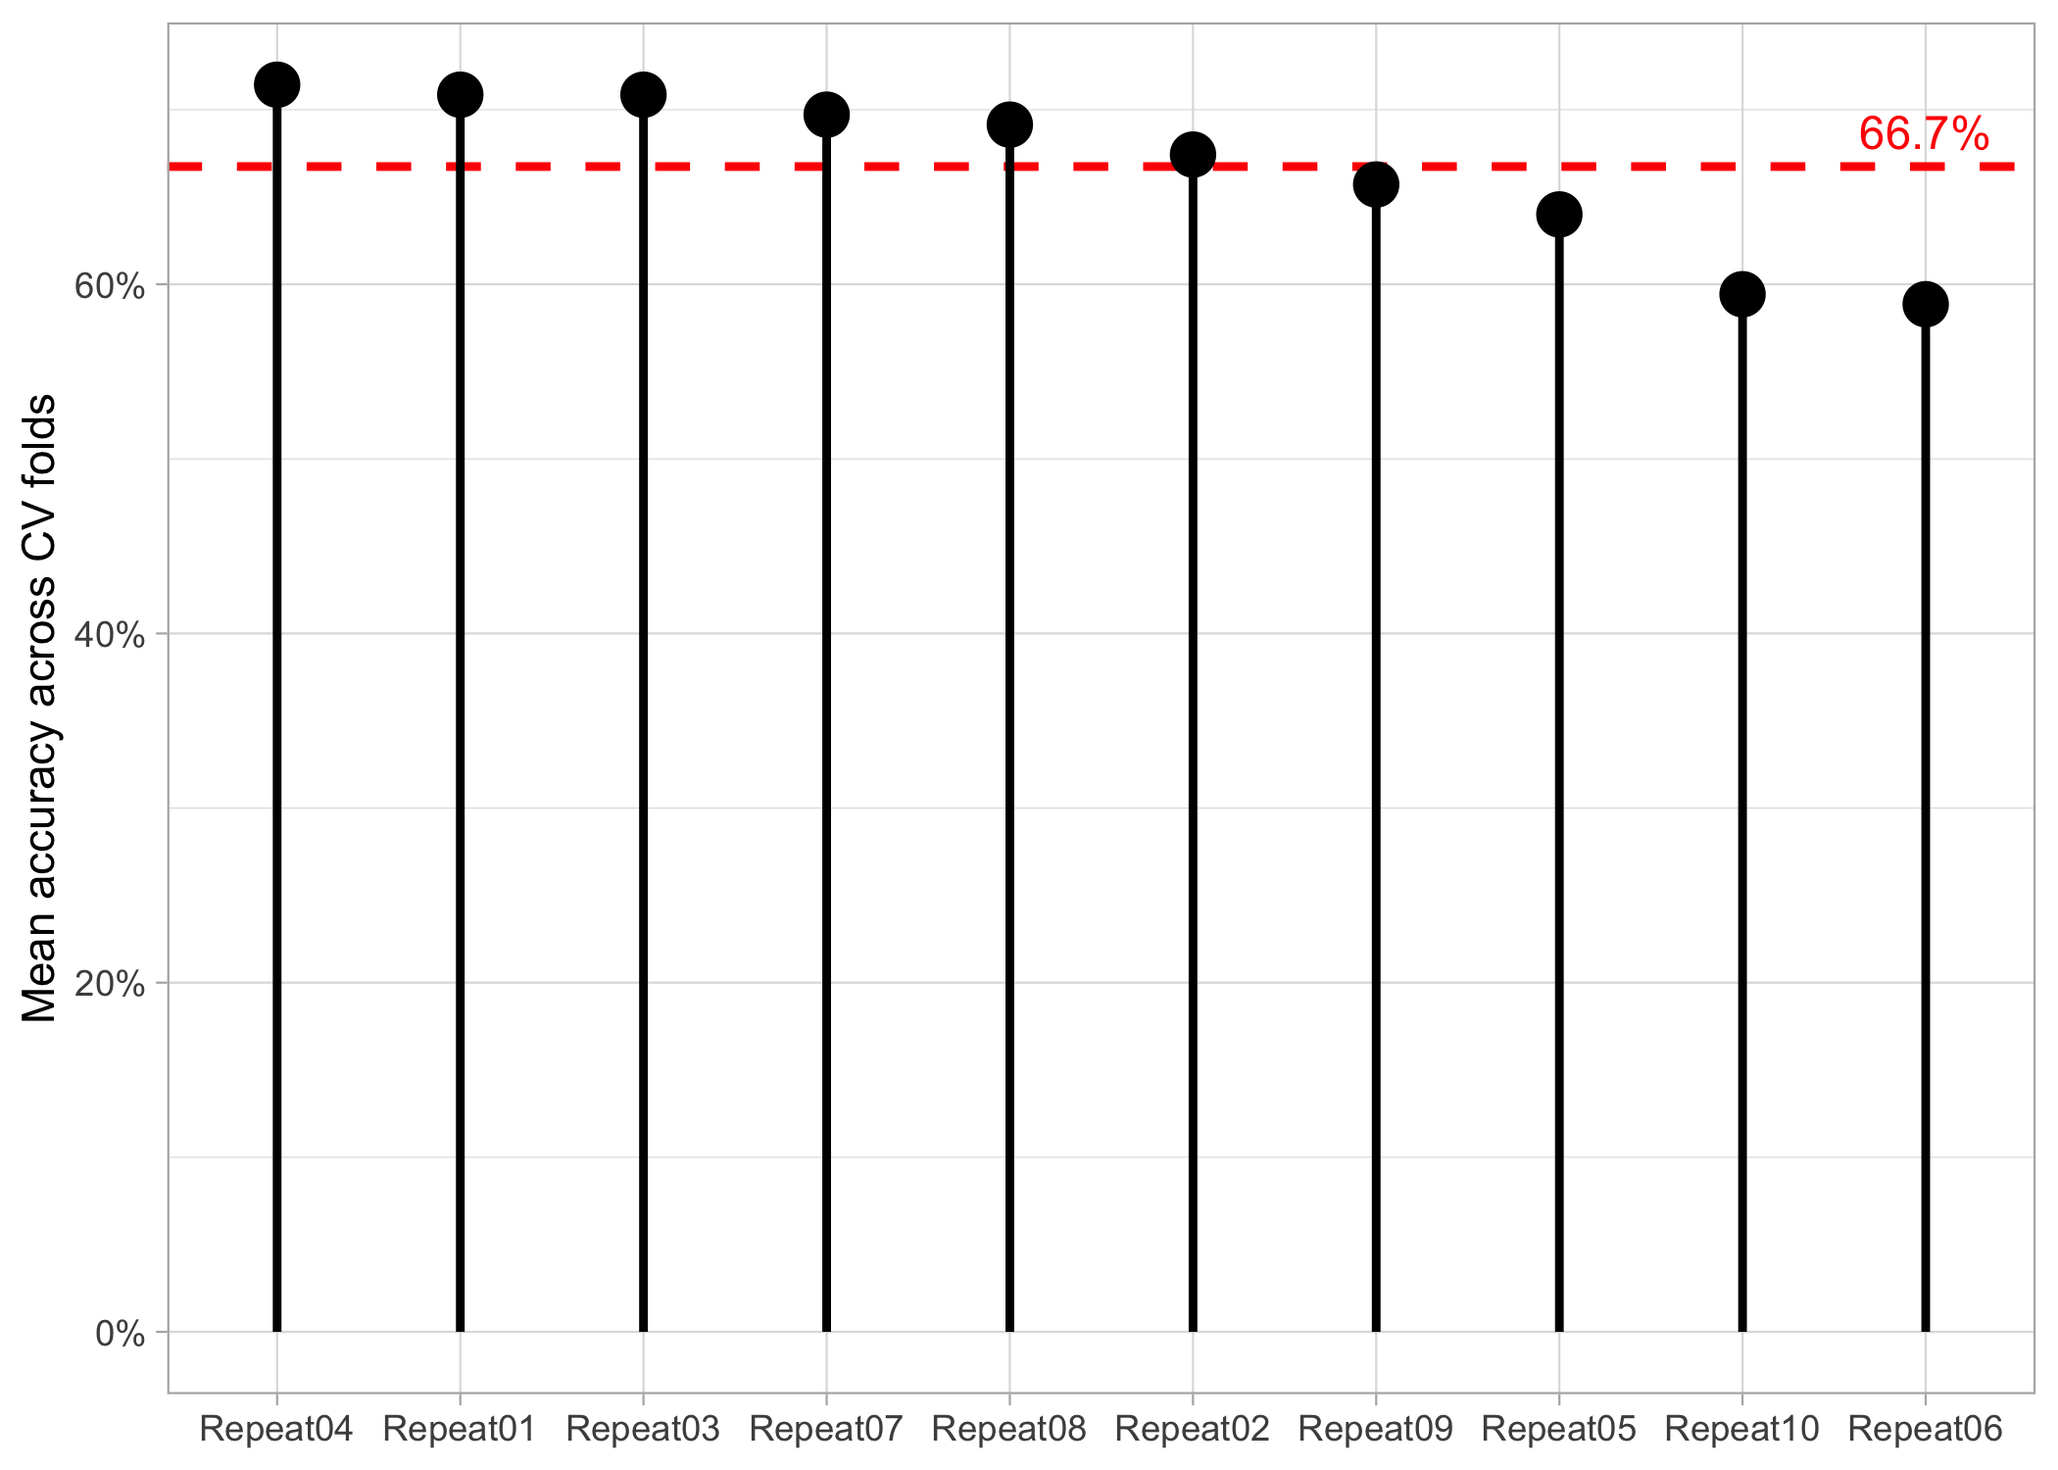
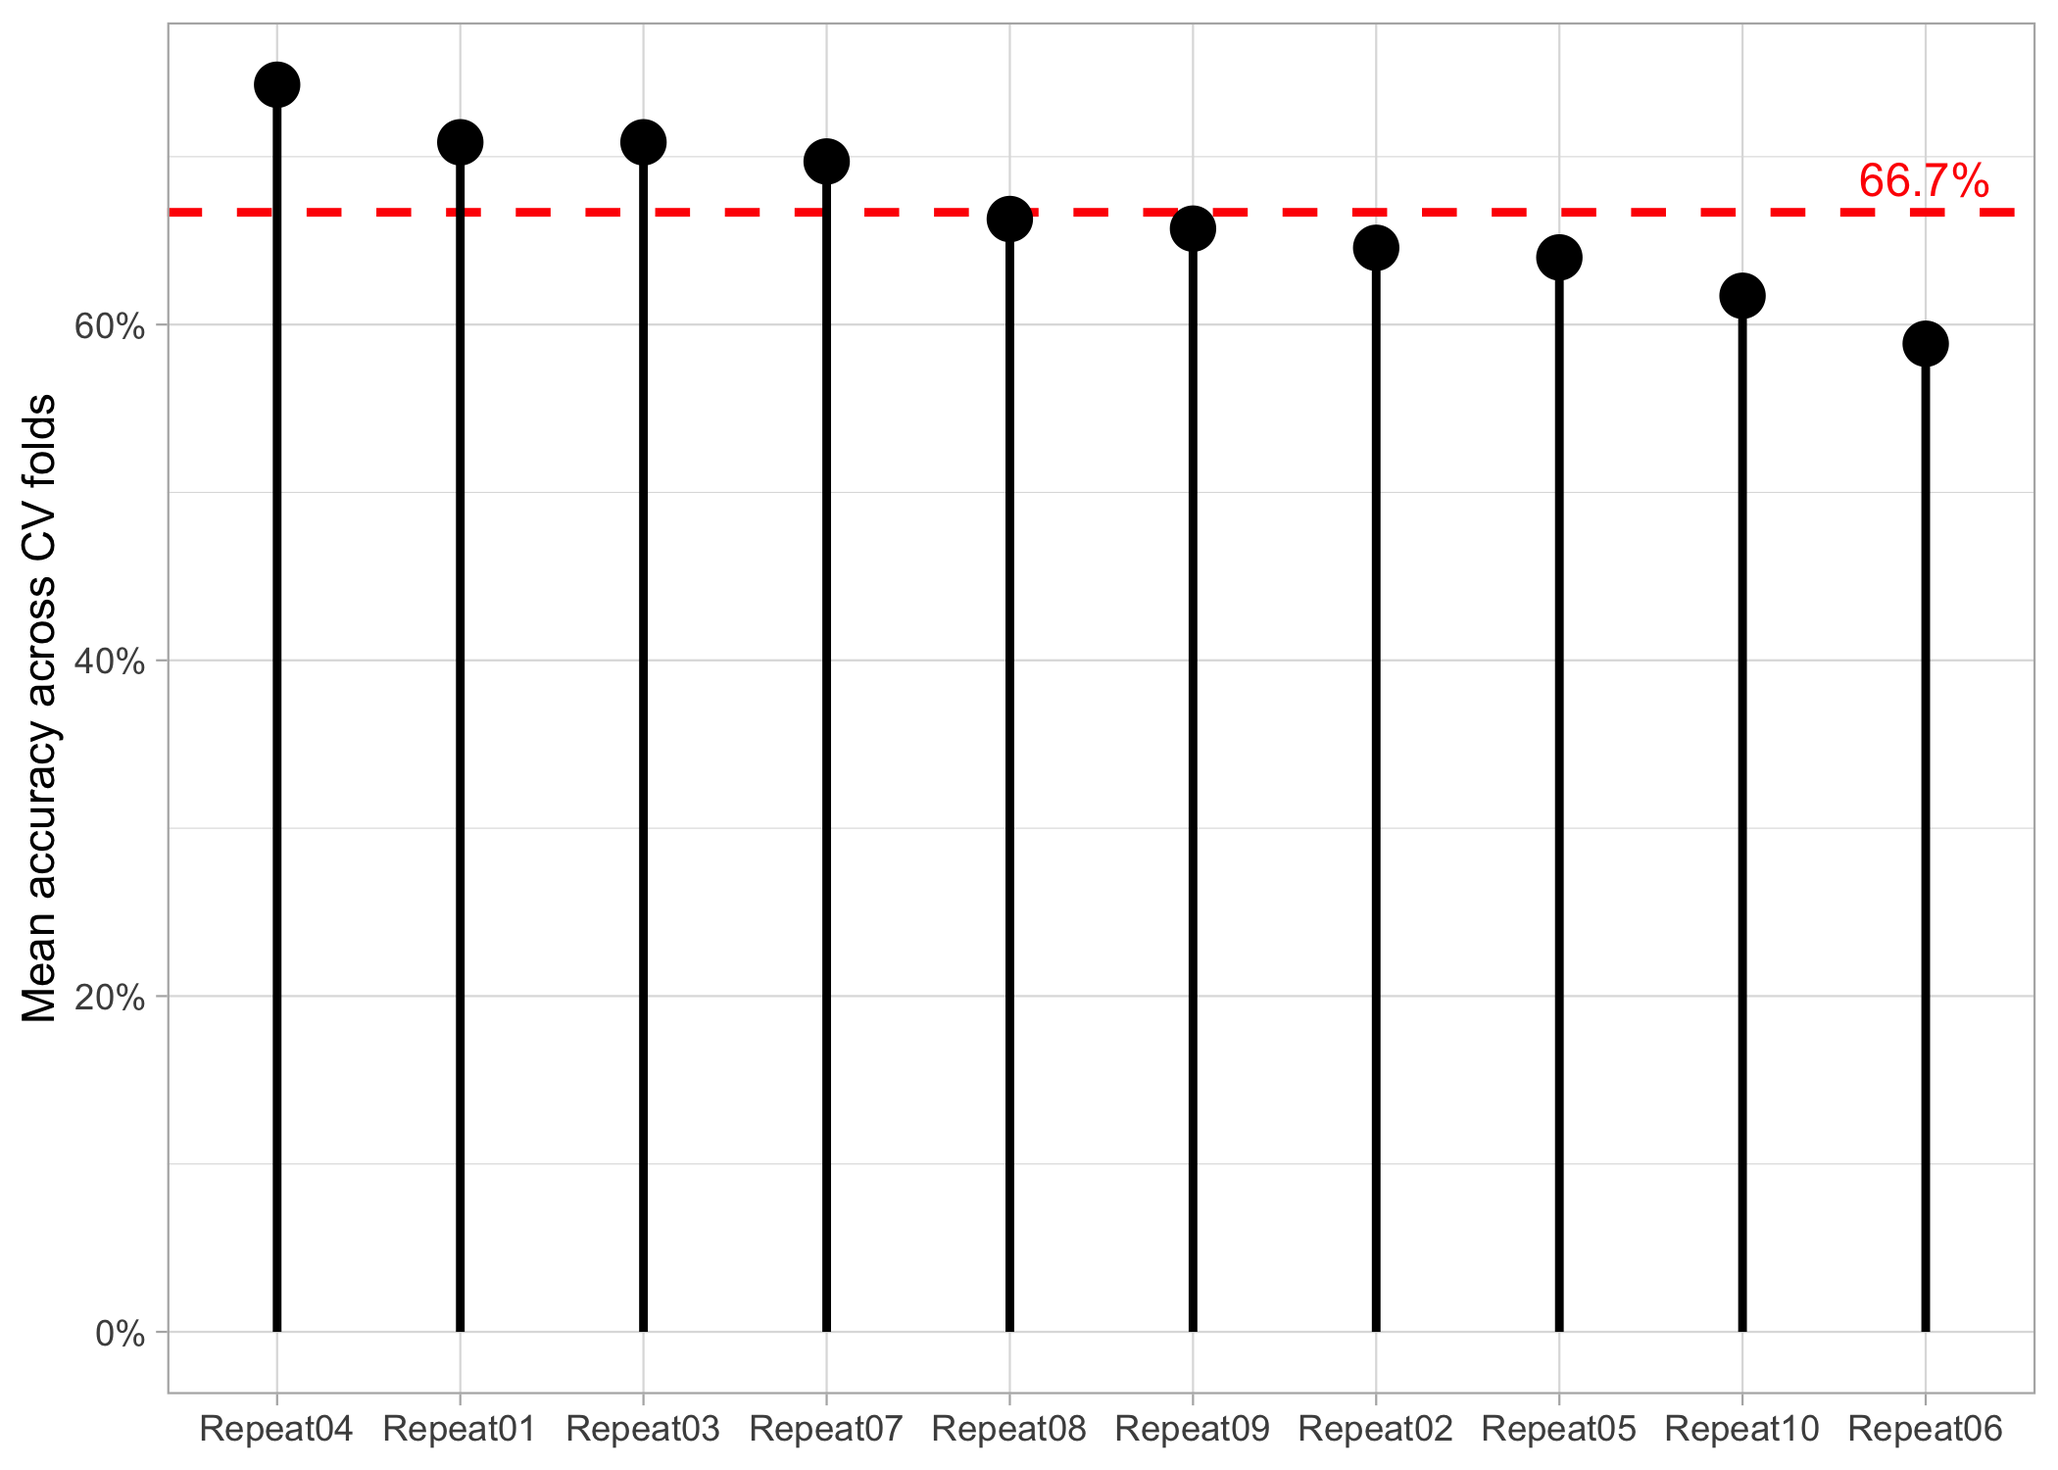
bug fixes

diff --git a/reports/predictive_modeling/aml_predictive_modeling_vignette.md b/reports/predictive_modeling/aml_predictive_modeling_vignette.md
@@ -1,7 +1,7 @@
 AML Predictive Modeling Vignette
 ================
 tkeyes
-2020-10-05
+2020-10-16
 
   - [Reading in data](#reading-in-data)
   - [Very quick EDA](#very-quick-eda)
@@ -360,7 +360,7 @@ mah_dev_cv
     ## #  5-fold cross-validation repeated 10 times using stratification 
     ## # A tibble: 50 x 3
     ##    splits         id       id2  
-    ##    <named list>   <chr>    <chr>
+    ##    <list>         <chr>    <chr>
     ##  1 <split [22/7]> Repeat01 Fold1
     ##  2 <split [22/7]> Repeat01 Fold2
     ##  3 <split [24/5]> Repeat01 Fold3
@@ -400,20 +400,21 @@ single workflow using the package {workflows}.
 # preprocessing
 ddpr_dev_recipe <- 
   mah_dev_data %>% 
+  mutate(outcome = as.factor(outcome)) %>% 
   recipe(formula = outcome ~ .) %>% 
   step_rm(patient, condition) %>% 
-  step_normalize(-outcome) %>% 
-  step_mutate(outcome = as.factor(outcome))
+  step_normalize(-outcome)
 
 # model turning
 en_param_grid <-
   parameters(penalty(), mixture()) %>% 
   grid_max_entropy(size = 100)
-  #grid_regular(levels = c(5, 5))
+  # an alternative would be a regular grid, but this is slower
+  # grid_regular(levels = c(5, 5))
 
 # model specification
 ddpr_en_model_spec <- 
-  logistic_reg(penalty = tune(), mixture = tune()) %>% #should this be tuned?
+  logistic_reg(penalty = tune(), mixture = tune()) %>%
   set_engine("glmnet") %>% 
   set_mode("classification")
 
@@ -494,18 +495,18 @@ optimal_metrics
 ```
 
     ## # A tibble: 10 x 4
-    ##    repetition      penalty mixture mean_accuracy
-    ##    <chr>             <dbl>   <dbl>         <dbl>
-    ##  1 Repeat01   0.195         0.253          0.709
-    ##  2 Repeat02   0.195         0.253          0.674
-    ##  3 Repeat03   0.000410      0.983          0.709
-    ##  4 Repeat04   0.0720        0.505          0.714
-    ##  5 Repeat05   0.108         0.761          0.64 
-    ##  6 Repeat06   0.687         0.775          0.589
-    ##  7 Repeat07   0.0720        0.505          0.697
-    ##  8 Repeat08   0.195         0.253          0.691
-    ##  9 Repeat09   0.195         0.253          0.657
-    ## 10 Repeat10   0.0000000983  0.0654         0.594
+    ##    repetition    penalty mixture mean_accuracy
+    ##    <chr>           <dbl>   <dbl>         <dbl>
+    ##  1 Repeat01   0.0854       0.277         0.709
+    ##  2 Repeat02   0.0777       0.461         0.646
+    ##  3 Repeat03   0.00000382   0.966         0.709
+    ##  4 Repeat04   0.0777       0.461         0.743
+    ##  5 Repeat05   0.221        0.872         0.64 
+    ##  6 Repeat06   0.587        0.673         0.589
+    ##  7 Repeat07   0.0777       0.461         0.697
+    ##  8 Repeat08   0.0819       0.796         0.663
+    ##  9 Repeat09   0.356        0.126         0.657
+    ## 10 Repeat10   0.373        0.469         0.617
 
 From this, we can see that the estimates are a bit all-over-the-place,
 which makes sense, because our N is small, our samples comes from a very
@@ -567,22 +568,28 @@ represent the most interesting candidates for us to interrogate further.
 optimal_metrics <- 
   optimal_metrics %>% 
   mutate(
-    importance_scores = 
+    models = 
       map2(
-        .x = penalty,
+        .x = penalty, 
         .y = mixture, 
-        .f = 
-          ~
+        .f = ~
           finalize_workflow(
             x = ddpr_en_workflow, 
             parameters = tibble(penalty = .x, mixture = .y)
           ) %>% 
-          fit(object = ., data = mah_dev_data) %>% 
-          pluck("fit") %>% 
-          pluck("fit") %>% 
+          fit(object = ., data = mah_dev_data)
+      ),
+    importance_scores =
+      map(
+        .x = models, 
+        .f = ~ 
+          .x %>%
+          pluck("fit") %>%
+          pluck("fit") %>%
           vi()
       )
   )
+
 
 coefficient_counts <- 
   optimal_metrics %>% 
@@ -607,17 +614,17 @@ coefficient_counts
     ##    <chr>                 <int>
     ##  1 DC_CD90                  10
     ##  2 HSC_GMCSF_pS6            10
-    ##  3 Monocyte_IL6_pS6         10
-    ##  4 Thrombocyte_abundance    10
-    ##  5 Thrombocyte_IL6_pS6      10
-    ##  6 wbc                      10
-    ##  7 HSC_IL6_pS6               9
-    ##  8 Monocyte_CD117            9
+    ##  3 Monocyte_CD117           10
+    ##  4 Monocyte_IL6_pS6         10
+    ##  5 Thrombocyte_abundance    10
+    ##  6 Thrombocyte_IL6_pS6      10
+    ##  7 wbc                      10
+    ##  8 HSC_IL6_pS6               9
     ##  9 MPP_IL6_pS6               8
-    ## 10 MEP_CD33                  7
-    ## 11 DC_Basal_pCreb            3
-    ## 12 Monocyte_Basal_pS6        2
-    ## 13 MPP_CD33                  2
+    ## 10 DC_Basal_pCreb            4
+    ## 11 MEP_CD33                  4
+    ## 12 Monocyte_Basal_pS6        4
+    ## 13 MPP_CD33                  1
 
 We can see that some features come up in most of the 10 resamplings and
 others don’t…
@@ -630,13 +637,13 @@ coefficient_names <-
 coefficient_names
 ```
 
-    ##  [1] "DC_CD90"               "HSC_GMCSF_pS6"         "Monocyte_IL6_pS6"     
-    ##  [4] "Thrombocyte_abundance" "Thrombocyte_IL6_pS6"   "wbc"                  
-    ##  [7] "HSC_IL6_pS6"           "Monocyte_CD117"        "MPP_IL6_pS6"          
-    ## [10] "MEP_CD33"              "DC_Basal_pCreb"        "Monocyte_Basal_pS6"   
+    ##  [1] "DC_CD90"               "HSC_GMCSF_pS6"         "Monocyte_CD117"       
+    ##  [4] "Monocyte_IL6_pS6"      "Thrombocyte_abundance" "Thrombocyte_IL6_pS6"  
+    ##  [7] "wbc"                   "HSC_IL6_pS6"           "MPP_IL6_pS6"          
+    ## [10] "DC_Basal_pCreb"        "MEP_CD33"              "Monocyte_Basal_pS6"   
     ## [13] "MPP_CD33"
 
-And a visualization of the most predictice features:
+And a visualization of the most predictive features:
 
 ``` r
 mah_dev_data %>% 
@@ -668,6 +675,105 @@ mah_dev_data %>%
 ```
 
 ![](aml_predictive_modeling_vignette_files/figure-gfm/unnamed-chunk-16-1.png)<!-- -->![](aml_predictive_modeling_vignette_files/figure-gfm/unnamed-chunk-16-2.png)<!-- -->![](aml_predictive_modeling_vignette_files/figure-gfm/unnamed-chunk-16-3.png)<!-- -->![](aml_predictive_modeling_vignette_files/figure-gfm/unnamed-chunk-16-4.png)<!-- -->![](aml_predictive_modeling_vignette_files/figure-gfm/unnamed-chunk-16-5.png)<!-- -->![](aml_predictive_modeling_vignette_files/figure-gfm/unnamed-chunk-16-6.png)<!-- -->![](aml_predictive_modeling_vignette_files/figure-gfm/unnamed-chunk-16-7.png)<!-- -->![](aml_predictive_modeling_vignette_files/figure-gfm/unnamed-chunk-16-8.png)<!-- -->![](aml_predictive_modeling_vignette_files/figure-gfm/unnamed-chunk-16-9.png)<!-- -->![](aml_predictive_modeling_vignette_files/figure-gfm/unnamed-chunk-16-10.png)<!-- -->![](aml_predictive_modeling_vignette_files/figure-gfm/unnamed-chunk-16-11.png)<!-- -->![](aml_predictive_modeling_vignette_files/figure-gfm/unnamed-chunk-16-12.png)<!-- -->![](aml_predictive_modeling_vignette_files/figure-gfm/unnamed-chunk-16-13.png)<!-- -->
+
+From there, we can use our models that were fit on the entire dataset
+and see where they performed best.
+
+``` r
+perf_metrics <- metric_set(accuracy, sens, spec, f_meas)
+
+performance_metrics <- 
+  optimal_metrics %>% 
+  mutate(
+    predictions = 
+      map(
+        .x = models, 
+        .f = ~
+          predict(object = .x, new_data = mah_dev_data)
+      ), 
+    performance_metrics =
+      map(
+        .x = predictions,
+        .f = ~
+          .x %>%
+          mutate(truth = as.factor(mah_dev_data$outcome)) %>%
+          perf_metrics(
+            truth = truth,
+            estimate = .pred_class
+          )
+      )
+  )
+
+performance_metrics %>% 
+  pull(performance_metrics) %>% 
+  bind_rows() %>% 
+  select(-.estimator) %>% 
+  group_by(.metric) %>% 
+  summarize(.estimate = mean(.estimate))
+```
+
+    ## `summarise()` ungrouping output (override with `.groups` argument)
+
+    ## # A tibble: 4 x 2
+    ##   .metric  .estimate
+    ##   <chr>        <dbl>
+    ## 1 accuracy     0.9  
+    ## 2 f_meas       0.933
+    ## 3 sens         1    
+    ## 4 spec         0.758
+
+In general, we can see that, on average, each of the resampled models
+(when rerun on all the data) give us good sensitivity and *decent*
+specificity. Recall that
+
+  - Sensitivity refers to the number of **True Positives** that are
+    captured by the model (i.e. proportion of True Positives that the
+    model labels as positive)
+  - Specificity refers to the number of **True Negatives** that are
+    captured by the model (i.e. proportion of True Negatives that the
+    model labels as negative).
+
+Thus, our model has a bias for labeling kids as having a risk of relapse
+even if they don’t.
+
+Using our favorite features, we can now rerun our PCA and see if the
+patients segregate better using just our favorite features:
+
+``` r
+pca_recipe <- 
+  recipe(
+    ~., 
+    data = 
+      mah_dev_data %>% 
+      select(all_of(c("outcome", coefficient_names))),
+  ) %>% 
+  step_zv(all_numeric()) %>% 
+  step_normalize(all_numeric()) %>% 
+  step_pca(all_numeric(), num_comp = 5)
+
+pca_prep <- prep(pca_recipe)
+
+pca_result <- juice(pca_prep)
+
+pca_result %>% 
+  mutate(outcome = fct_rev(outcome)) %>% 
+  ggplot(aes(x = PC1, y = PC2, color = outcome)) + 
+  geom_point(size = 3, alpha = 0.7) + 
+  labs(title = "Developmental Classifier Features using Mahalanobis Distance")
+```
+
+![](aml_predictive_modeling_vignette_files/figure-gfm/unnamed-chunk-18-1.png)<!-- -->
+
+Finally, we store the vector containing the name of the most-predictive
+features in its own file so that we can reference it later.
+
+``` r
+coefficient_names %>% 
+  write_rds(
+    x = ., 
+    file = here::here("data", "modeling_logistic", "mah_dev_feature_names.rds")
+  ) 
+```
 
 # Future Directions
 
@@ -735,56 +841,32 @@ sessionInfo()
     ## [8] base     
     ## 
     ## other attached packages:
-    ##  [1] vip_0.2.1         doParallel_1.0.15 iterators_1.0.12  foreach_1.4.7    
-    ##  [5] ggthemes_4.2.0    rlang_0.4.6       yardstick_0.0.4   workflows_0.1.0  
-    ##  [9] tune_0.0.1        rsample_0.0.5     recipes_0.1.13    parsnip_0.0.5    
-    ## [13] infer_0.5.1       dials_0.0.4       scales_1.1.0      broom_0.5.4      
-    ## [17] tidymodels_0.0.4  forcats_0.4.0     stringr_1.4.0     dplyr_1.0.0      
-    ## [21] purrr_0.3.3       readr_1.3.1       tidyr_1.0.0       tibble_2.1.3     
-    ## [25] ggplot2_3.3.0     tidyverse_1.3.0  
+    ##  [1] vip_0.2.2         doParallel_1.0.15 iterators_1.0.12  foreach_1.5.0    
+    ##  [5] ggthemes_4.2.0    rlang_0.4.7       yardstick_0.0.7   workflows_0.2.0  
+    ##  [9] tune_0.1.1        rsample_0.0.8     recipes_0.1.13    parsnip_0.1.3    
+    ## [13] modeldata_0.0.2   infer_0.5.3       dials_0.0.9       scales_1.1.1     
+    ## [17] broom_0.7.1       tidymodels_0.1.1  forcats_0.4.0     stringr_1.4.0    
+    ## [21] dplyr_1.0.2       purrr_0.3.4       readr_1.4.0       tidyr_1.1.2      
+    ## [25] tibble_3.0.3      ggplot2_3.3.2     tidyverse_1.3.0  
     ## 
     ## loaded via a namespace (and not attached):
-    ##   [1] readxl_1.3.1         backports_1.1.5      tidytext_0.2.2      
-    ##   [4] plyr_1.8.5           igraph_1.2.4.2       splines_3.6.2       
-    ##   [7] crosstalk_1.0.0      listenv_0.8.0        SnowballC_0.6.0     
-    ##  [10] rstantools_2.0.0     inline_0.3.15        digest_0.6.23       
-    ##  [13] htmltools_0.4.0      rsconnect_0.8.16     fansi_0.4.1         
-    ##  [16] magrittr_1.5         globals_0.12.5       modelr_0.1.5        
-    ##  [19] gower_0.2.1          matrixStats_0.55.0   xts_0.12-0          
-    ##  [22] hardhat_0.1.1        prettyunits_1.1.1    colorspace_1.4-1    
-    ##  [25] rvest_0.3.5          haven_2.2.0          xfun_0.12           
-    ##  [28] callr_3.4.1          crayon_1.3.4         jsonlite_1.6        
-    ##  [31] lme4_1.1-21          survival_3.1-8       zoo_1.8-7           
-    ##  [34] glue_1.4.1           gtable_0.3.0         ipred_0.9-9         
-    ##  [37] pkgbuild_1.0.6       rstan_2.19.2         shape_1.4.4         
-    ##  [40] DBI_1.1.0            miniUI_0.1.1.1       Rcpp_1.0.3          
-    ##  [43] xtable_1.8-4         GPfit_1.0-8          stats4_3.6.2        
-    ##  [46] lava_1.6.6           StanHeaders_2.21.0-1 prodlim_2019.11.13  
-    ##  [49] DT_0.11              glmnet_3.0-2         htmlwidgets_1.5.1   
-    ##  [52] httr_1.4.1           threejs_0.3.3        ellipsis_0.3.0      
-    ##  [55] farver_2.0.3         pkgconfig_2.0.3      loo_2.2.0           
-    ##  [58] nnet_7.3-12          dbplyr_1.4.2         utf8_1.1.4          
-    ##  [61] here_0.1             labeling_0.3         tidyselect_1.1.0    
-    ##  [64] DiceDesign_1.8-1     reshape2_1.4.3       later_1.0.0         
-    ##  [67] munsell_0.5.0        cellranger_1.1.0     tools_3.6.2         
-    ##  [70] cli_2.0.1            generics_0.0.2       ggridges_0.5.2      
-    ##  [73] evaluate_0.14        fastmap_1.0.1        yaml_2.2.0          
-    ##  [76] processx_3.4.1       knitr_1.27           fs_1.3.1            
-    ##  [79] future_1.16.0        nlme_3.1-143         mime_0.8            
-    ##  [82] rstanarm_2.19.2      xml2_1.2.2           tokenizers_0.2.1    
-    ##  [85] compiler_3.6.2       bayesplot_1.7.1      shinythemes_1.1.2   
-    ##  [88] rstudioapi_0.10      reprex_0.3.0         tidyposterior_0.0.2 
-    ##  [91] lhs_1.0.1            stringi_1.4.5        highr_0.8           
-    ##  [94] ps_1.3.0             lattice_0.20-38      Matrix_1.2-18       
-    ##  [97] nloptr_1.2.1         markdown_1.1         shinyjs_1.1         
-    ## [100] vctrs_0.3.1          pillar_1.4.3         lifecycle_0.2.0     
-    ## [103] furrr_0.1.0          httpuv_1.5.2         R6_2.4.1            
-    ## [106] promises_1.1.0       gridExtra_2.3        janeaustenr_0.1.5   
-    ## [109] codetools_0.2-16     boot_1.3-24          colourpicker_1.0    
-    ## [112] MASS_7.3-51.5        gtools_3.8.1         assertthat_0.2.1    
-    ## [115] rprojroot_1.3-2      withr_2.1.2          shinystan_2.5.0     
-    ## [118] hms_0.5.2            grid_3.6.2           rpart_4.1-15        
-    ## [121] timeDate_3043.102    minqa_1.2.4          class_7.3-15        
-    ## [124] rmarkdown_2.0        pROC_1.16.1          tidypredict_0.4.3   
-    ## [127] shiny_1.4.0          lubridate_1.7.4      base64enc_0.1-3     
-    ## [130] dygraphs_1.1.1.6
+    ##  [1] colorspace_1.4-1   ellipsis_0.3.1     class_7.3-15       rprojroot_1.3-2   
+    ##  [5] fs_1.3.1           rstudioapi_0.11    listenv_0.8.0      furrr_0.1.0       
+    ##  [9] farver_2.0.3       prodlim_2019.11.13 fansi_0.4.1        lubridate_1.7.9   
+    ## [13] xml2_1.2.2         codetools_0.2-16   splines_3.6.2      knitr_1.27        
+    ## [17] jsonlite_1.7.1     pROC_1.16.1        dbplyr_1.4.4       compiler_3.6.2    
+    ## [21] httr_1.4.2         backports_1.1.5    assertthat_0.2.1   Matrix_1.2-18     
+    ## [25] cli_2.0.2          htmltools_0.4.0    tools_3.6.2        gtable_0.3.0      
+    ## [29] glue_1.4.1         Rcpp_1.0.3         cellranger_1.1.0   DiceDesign_1.8-1  
+    ## [33] vctrs_0.3.4        timeDate_3043.102  gower_0.2.1        xfun_0.12         
+    ## [37] globals_0.12.5     rvest_0.3.5        lifecycle_0.2.0    future_1.16.0     
+    ## [41] MASS_7.3-51.5      ipred_0.9-9        hms_0.5.2          yaml_2.2.0        
+    ## [45] gridExtra_2.3      rpart_4.1-15       stringi_1.4.5      highr_0.8         
+    ## [49] lhs_1.0.1          hardhat_0.1.4      lava_1.6.6         shape_1.4.4       
+    ## [53] pkgconfig_2.0.3    evaluate_0.14      lattice_0.20-38    labeling_0.3      
+    ## [57] tidyselect_1.1.0   here_0.1           plyr_1.8.5         magrittr_1.5      
+    ## [61] R6_2.4.1           generics_0.0.2     DBI_1.1.0          pillar_1.4.3      
+    ## [65] haven_2.2.0        withr_2.3.0        survival_3.1-8     nnet_7.3-12       
+    ## [69] modelr_0.1.5       crayon_1.3.4       utf8_1.1.4         rmarkdown_2.4     
+    ## [73] grid_3.6.2         readxl_1.3.1       blob_1.2.1         reprex_0.3.0      
+    ## [77] digest_0.6.23      GPfit_1.0-8        munsell_0.5.0      glmnet_4.0-2
